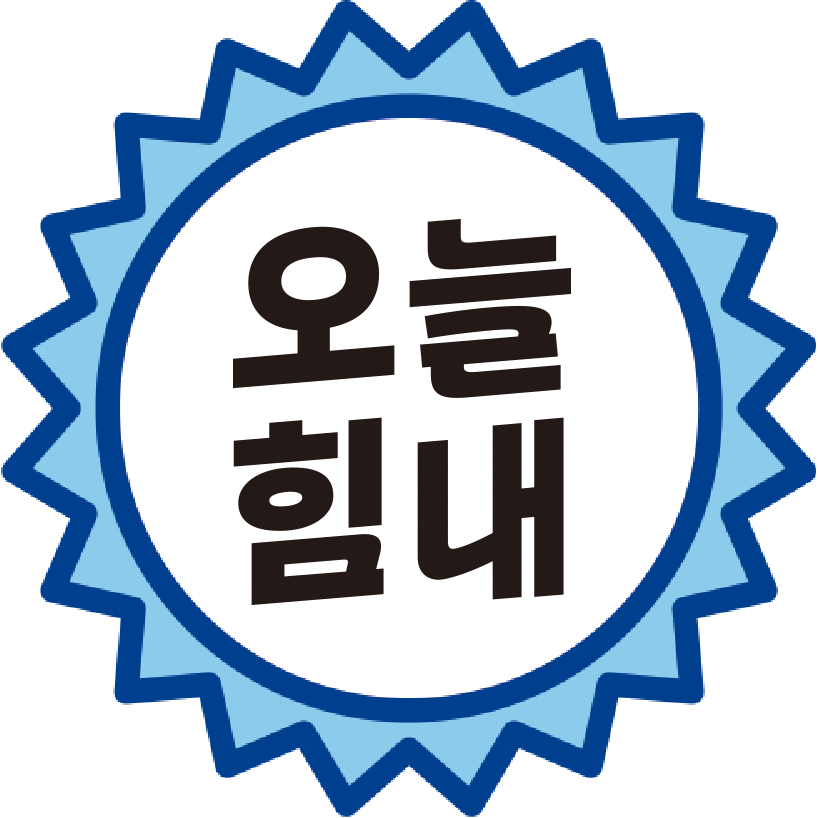
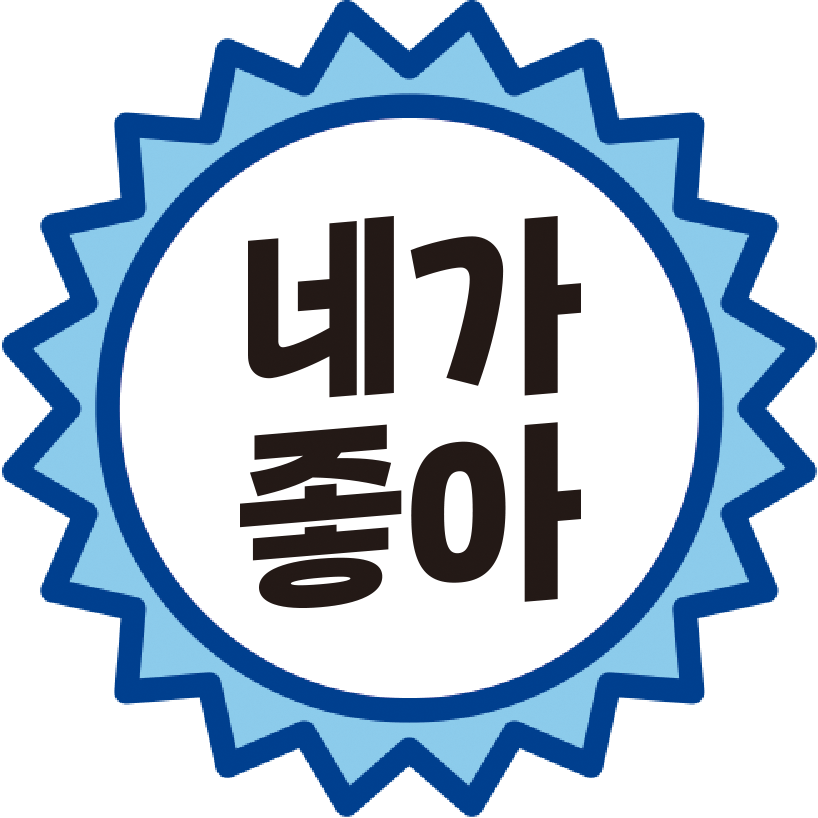
fix: 19세 이상 모달 화면 노출 변경, 카카오톡 공유하기 이미지 수정

diff --git a/index.html b/index.html
@@ -346,15 +346,15 @@
                 <div class="text_area">
                   <p>환상의 짝꿍캡</p>
                   <div class="imgs">
-                    <img src="./img/cap/cap_img04.png" alt="운세 짝꿍 img" />
-                    <img src="./img/cap/cap_img02.png" alt="운세 짝꿍 img" />
+                    <img src="./img/cap/cap_img05.png" alt="운세 짝꿍 img" />
+                    <img src="./img/cap/cap_img03.png" alt="운세 짝꿍 img" />
                   </div>
                 </div>
               </div>
               <!-- 반복 -->
               <div class="fortune2 d-none">
                 <div class="fortune_area">
-                  <h3>오늘의 플러팅 운세는 <span>“네가 좋아”</span></h3>
+                  <h3>오늘의 플러팅 운세는 <span>“네가좋아”</span></h3>
                   <div class="img_area on">
                     <i class="deco_img d05">
                       <img src="./img/sec02_deco01.png" alt="deco" />
@@ -363,7 +363,7 @@
                       <img src="./img/sec02_deco02.png" alt="deco" />
                     </i>
 
-                    <img src="./img/cap/cap_img05.png" alt="운세 img" />
+                    <img src="./img/cap/cap_img02.png" alt="운세 img" />
                   </div>
                   <p>
                     그동안 부끄러워서 망설였던 당신?! <br />
@@ -373,8 +373,8 @@
                 <div class="text_area">
                   <p>환상의 짝꿍캡</p>
                   <div class="imgs">
-                    <img src="./img/cap/cap_img03.png" alt="운세 짝꿍 img" />
                     <img src="./img/cap/cap_img08.png" alt="운세 짝꿍 img" />
+                    <img src="./img/cap/cap_img04.png" alt="운세 짝꿍 img" />
                   </div>
                 </div>
               </div>
@@ -389,7 +389,7 @@
                       <img src="./img/sec02_deco02.png" alt="deco" />
                     </i>
 
-                    <img src="./img/cap/cap_img02.png" alt="운세 img" />
+                    <img src="./img/cap/cap_img03.png" alt="운세 img" />
                   </div>
                   <p>
                     항상 응원하는 당신이 있기에 <br />
@@ -416,7 +416,7 @@
                       <img src="./img/sec02_deco02.png" alt="deco" />
                     </i>
 
-                    <img src="./img/cap/cap_img03.png" alt="운세 img" />
+                    <img src="./img/cap/cap_img04.png" alt="운세 img" />
                   </div>
                   <p>
                     지금 보고싶은 사람이 있나요? <br />
@@ -427,7 +427,7 @@
                 <div class="text_area">
                   <p>환상의 짝꿍캡</p>
                   <div class="imgs">
-                    <img src="./img/cap/cap_img04.png" alt="운세 짝꿍 img" />
+                    <img src="./img/cap/cap_img05.png" alt="운세 짝꿍 img" />
                     <img src="./img/cap/cap_img01.png" alt="운세 짝꿍 img" />
                   </div>
                 </div>
@@ -443,7 +443,7 @@
                       <img src="./img/sec02_deco02.png" alt="deco" />
                     </i>
 
-                    <img src="./img/cap/cap_img04.png" alt="운세 img" />
+                    <img src="./img/cap/cap_img05.png" alt="운세 img" />
                   </div>
                   <p>
                     그동안 쌓았던 스트레스를 털어내는 날! <br />
@@ -454,7 +454,7 @@
                 <div class="text_area">
                   <p>환상의 짝꿍캡</p>
                   <div class="imgs">
-                    <img src="./img/cap/cap_img05.png" alt="운세 짝꿍 img" />
+                    <img src="./img/cap/cap_img02.png" alt="운세 짝꿍 img" />
                     <img src="./img/cap/cap_img07.png" alt="운세 짝꿍 img" />
                   </div>
                 </div>
@@ -481,8 +481,8 @@
                 <div class="text_area">
                   <p>환상의 짝꿍캡</p>
                   <div class="imgs">
-                    <img src="./img/cap/cap_img01.png" alt="운세 짝꿍 img" />
                     <img src="./img/cap/cap_img08.png" alt="운세 짝꿍 img" />
+                    <img src="./img/cap/cap_img01.png" alt="운세 짝꿍 img" />
                   </div>
                 </div>
               </div>
@@ -509,7 +509,7 @@
                   <p>환상의 짝꿍캡</p>
                   <div class="imgs">
                     <img src="./img/cap/cap_img08.png" alt="운세 짝꿍 img" />
-                    <img src="./img/cap/cap_img05.png" alt="운세 짝꿍 img" />
+                    <img src="./img/cap/cap_img02.png" alt="운세 짝꿍 img" />
                   </div>
                 </div>
               </div>
@@ -535,7 +535,7 @@
                 <div class="text_area">
                   <p>환상의 짝꿍캡</p>
                   <div class="imgs">
-                    <img src="./img/cap/cap_img05.png" alt="운세 짝꿍 img" />
+                    <img src="./img/cap/cap_img02.png" alt="운세 짝꿍 img" />
                     <img src="./img/cap/cap_img07.png" alt="운세 짝꿍 img" />
                   </div>
                 </div>

diff --git a/js/common.js b/js/common.js
@@ -1,5 +1,8 @@
 $(document).ready(function () {
   localStorageInit();
+  const visitCheck = localStorage.getItem("visit");
+  if (!visitCheck) $(".age_wrap").css("display", "flex");
+
   // Swiper Slide
   const swiper1 = new Swiper("#slider01", {
     slidesPerView: 1.6,
@@ -123,7 +126,20 @@ function getParams() {
 
 // KAKAO share
 function onKakaoShare() {
+  const text = [
+    "내가쏠게",
+    "네가좋아",
+    "오늘힘내",
+    "보고싶어",
+    "나랑놀자",
+    "새복많받",
+    "완전반함",
+    "히든하트맵",
+  ];
+  const paramsCap = getParams()?.cap;
   const { Kakao } = window;
+  // console.log(paramsCap, `${siteUrl}/img/cap/sns_img0${paramsCap}.png`);
+
   sendApi({
     key: "share",
     value: 1,
@@ -133,8 +149,8 @@ function onKakaoShare() {
     objectType: "feed",
     content: {
       title: "KRUSH(크러시) - 두근두근 플러팅 운세",
-      description: '오늘의 플러팅 운세는 "내가쏠게"',
-      imageUrl: `${siteUrl}/img/cap/sns_img01.png`,
+      description: `오늘의 플러팅 운세는 "${text[Number(paramsCap) - 1]}"`,
+      imageUrl: `${siteUrl}/img/cap/sns_img0${paramsCap}.png`,
       link: {
         mobileWebUrl: window.location.href,
         webUrl: window.location.href,

diff --git a/css/landing.css b/css/landing.css
@@ -5,7 +5,7 @@
 .mobile_ver {display: none;}
 
 /*===== AGE =====*/
-.age_wrap {position: fixed; top: 0; left: 0; display: flex; align-items: center; justify-content: center; width: 100vw; height: 100vh; background: rgba(0,0,0,0.9); text-align: center; z-index: 1000;}
+.age_wrap {position: fixed; top: 0; left: 0; display: none; align-items: center; justify-content: center; width: 100vw; height: 100vh; background: rgba(0,0,0,0.9); text-align: center; z-index: 1000;}
 .age_wrap .age_content {padding: 0 16px;}
 .age_wrap .age_content p {font-size: 38px; color: #fff; font-weight: 800; line-height: 1.3; word-break: keep-all;}
 .age_wrap .age_content p b {display: block; font-size: 48px; color: #04c1ff;}
